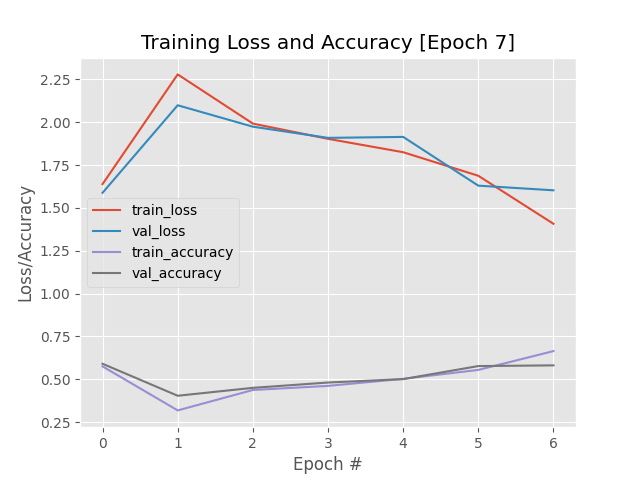
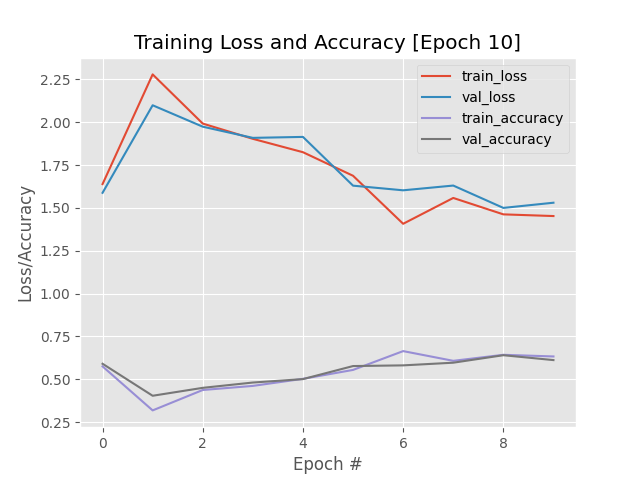
added update pygamesearch to googlenet

diff --git a/codes to make operational and understand/deepergooglenet/pyimagesearch/callbacks/trainingmonitor.py b/codes to make operational and understand/deepergooglenet/pyimagesearch/callbacks/trainingmonitor.py
@@ -55,8 +55,17 @@ class TrainingMonitor(BaseLogger):
 			plt.figure()
 			plt.plot(N, self.H["loss"], label="train_loss")
 			plt.plot(N, self.H["val_loss"], label="val_loss")
-			plt.plot(N, self.H["acc"], label="train_acc")
-			plt.plot(N, self.H["val_acc"], label="val_acc")
+
+			# Check for the correct accuracy key
+			if "accuracy" in self.H:
+				plt.plot(N, self.H["accuracy"], label="train_accuracy")
+			if "val_accuracy" in self.H:
+				plt.plot(N, self.H["val_accuracy"], label="val_accuracy")
+			if "acc" in self.H:  # For backward compatibility
+				plt.plot(N, self.H["acc"], label="train_acc")
+			if "val_acc" in self.H:  # For backward compatibility
+				plt.plot(N, self.H["val_acc"], label="val_acc")
+
 			plt.title("Training Loss and Accuracy [Epoch {}]".format(
 				len(self.H["loss"])))
 			plt.xlabel("Epoch #")
